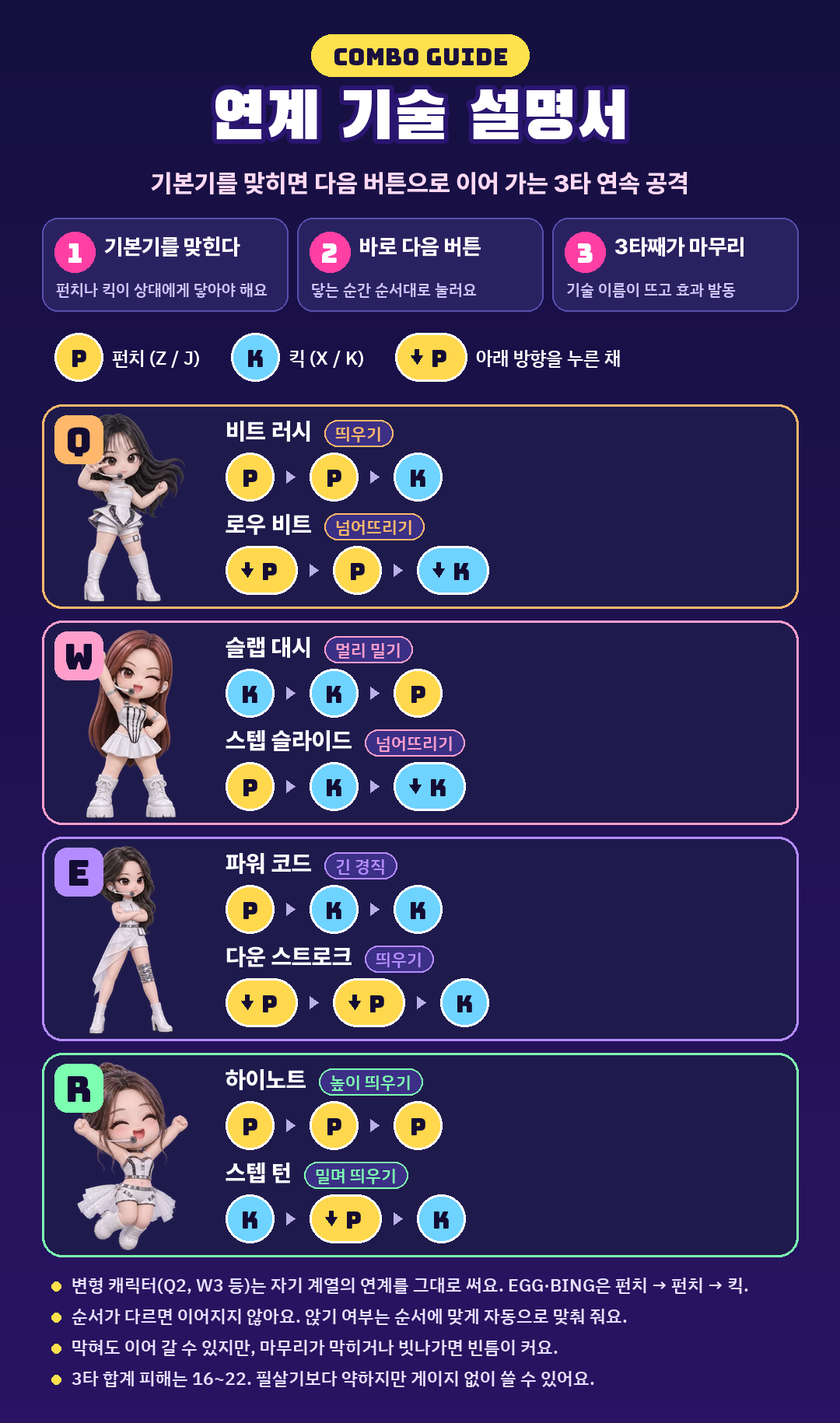
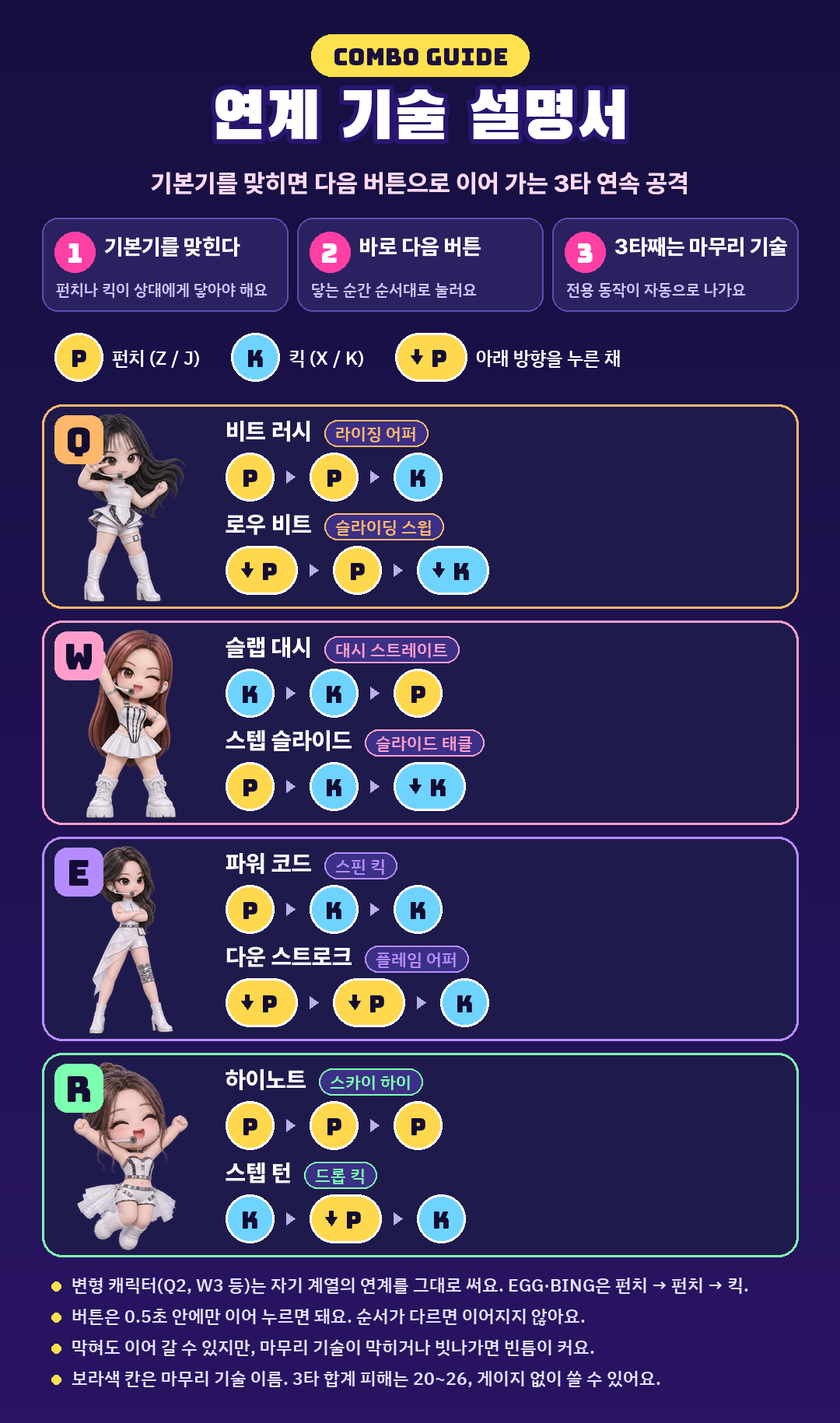
연계 기술: 입력 여유 확대, 전용 마무리 기술 추가 (빌드 20261115195649)

diff --git a/characters.html b/characters.html
@@ -92,7 +92,7 @@ footer{margin-top:48px;text-align:center;color:var(--dim);font-size:13px}
     <div class="stats"><div class="stat"><span>체력</span><div class="bar"><i style="width:60%"></i></div><b>98</b></div><div class="stat"><span>이동</span><div class="bar"><i style="width:62%"></i></div><b>278</b></div><div class="stat"><span>점프</span><div class="bar"><i style="width:74%"></i></div><b>825</b></div><div class="stat"><span>펀치</span><div class="bar"><i style="width:87%"></i></div><b>9</b></div><div class="stat"><span>킥</span><div class="bar"><i style="width:89%"></i></div><b>14</b></div><div class="stat"><span>사거리</span><div class="bar"><i style="width:41%"></i></div><b>+8</b></div></div>
     <ul class="extra"><li><span>공격 속도</span><b>93%</b></li><li><span>가드 중 받는 피해</span><b>100%</b></li><li><span>필살기 피해</span><b>103%</b></li></ul>
     <section class="special"><span class="kind">근접 연타</span><h4>필살기 · 불꽃 복싱 3연타</h4><p>앞으로 파고들어 불꽃 주먹을 세 번 이어 칩니다. 첫 타가 닿아야 다음 타로 이어지고, 마지막 타는 상대를 띄워 날립니다.</p></section>
-    <p class="tagline"><b>태그기</b> R와 함께 · 게이지 100%, 라운드당 1회</p><p class="tagline"><b>연계 기술</b> 비트 러시: 펀치 → 펀치 → 킥 (띄우기) · 로우 비트: 앉아 펀치 → 펀치 → 다리 걸기 (넘어뜨리기)</p>
+    <p class="tagline"><b>태그기</b> R와 함께 · 게이지 100%, 라운드당 1회</p><p class="tagline"><b>연계 기술</b> 비트 러시: 펀치 → 펀치 → 킥 (마무리 라이징 어퍼, 뛰어오르며 띄움) · 로우 비트: 앉아 펀치 → 펀치 → 다리 걸기 (마무리 슬라이딩 스윕, 넘어뜨림)</p>
   </div>
 </article>
 <article class="fighter" id="Qb" style="--c:#8fb4ff">
@@ -103,7 +103,7 @@ footer{margin-top:48px;text-align:center;color:var(--dim);font-size:13px}
     <div class="stats"><div class="stat"><span>체력</span><div class="bar"><i style="width:47%"></i></div><b>95</b></div><div class="stat"><span>이동</span><div class="bar"><i style="width:57%"></i></div><b>270</b></div><div class="stat"><span>점프</span><div class="bar"><i style="width:63%"></i></div><b>810</b></div><div class="stat"><span>펀치</span><div class="bar"><i style="width:87%"></i></div><b>9</b></div><div class="stat"><span>킥</span><div class="bar"><i style="width:100%"></i></div><b>15</b></div><div class="stat"><span>사거리</span><div class="bar"><i style="width:55%"></i></div><b>+14</b></div></div>
     <ul class="extra"><li><span>공격 속도</span><b>87%</b></li><li><span>가드 중 받는 피해</span><b>105%</b></li><li><span>필살기 피해</span><b>114%</b></li></ul>
     <section class="special"><span class="kind">원거리 · 연타</span><h4>필살기 · 드럼롤</h4><p>제자리에서 음파를 쏩니다. 발동 뒤에 공격 버튼을 연타한 만큼 음파가 더 나갑니다.</p></section>
-    <p class="tagline"><b>태그기</b> R2와 함께 · 게이지 100%, 라운드당 1회</p><p class="tagline"><b>연계 기술</b> 비트 러시: 펀치 → 펀치 → 킥 (띄우기) · 로우 비트: 앉아 펀치 → 펀치 → 다리 걸기 (넘어뜨리기)</p>
+    <p class="tagline"><b>태그기</b> R2와 함께 · 게이지 100%, 라운드당 1회</p><p class="tagline"><b>연계 기술</b> 비트 러시: 펀치 → 펀치 → 킥 (마무리 라이징 어퍼, 뛰어오르며 띄움) · 로우 비트: 앉아 펀치 → 펀치 → 다리 걸기 (마무리 슬라이딩 스윕, 넘어뜨림)</p>
   </div>
 </article>
 <article class="fighter" id="Qc" style="--c:#ff6b81">
@@ -114,7 +114,7 @@ footer{margin-top:48px;text-align:center;color:var(--dim);font-size:13px}
     <div class="stats"><div class="stat"><span>체력</span><div class="bar"><i style="width:74%"></i></div><b>101</b></div><div class="stat"><span>이동</span><div class="bar"><i style="width:50%"></i></div><b>260</b></div><div class="stat"><span>점프</span><div class="bar"><i style="width:56%"></i></div><b>800</b></div><div class="stat"><span>펀치</span><div class="bar"><i style="width:100%"></i></div><b>10</b></div><div class="stat"><span>킥</span><div class="bar"><i style="width:89%"></i></div><b>14</b></div><div class="stat"><span>사거리</span><div class="bar"><i style="width:65%"></i></div><b>+18</b></div></div>
     <ul class="extra"><li><span>공격 속도</span><b>84%</b></li><li><span>가드 중 받는 피해</span><b>97%</b></li><li><span>필살기 피해</span><b>111%</b></li></ul>
     <section class="special"><span class="kind">지상 제어</span><h4>필살기 · 페인트 웅덩이</h4><p>앞쪽 바닥에 페인트 웅덩이를 깝니다. 웅덩이를 밟은 상대는 미끄러지고 가드를 하지 못합니다.</p></section>
-    <p class="tagline"><b>태그기</b> R3와 함께 · 게이지 100%, 라운드당 1회</p><p class="tagline"><b>연계 기술</b> 비트 러시: 펀치 → 펀치 → 킥 (띄우기) · 로우 비트: 앉아 펀치 → 펀치 → 다리 걸기 (넘어뜨리기)</p>
+    <p class="tagline"><b>태그기</b> R3와 함께 · 게이지 100%, 라운드당 1회</p><p class="tagline"><b>연계 기술</b> 비트 러시: 펀치 → 펀치 → 킥 (마무리 라이징 어퍼, 뛰어오르며 띄움) · 로우 비트: 앉아 펀치 → 펀치 → 다리 걸기 (마무리 슬라이딩 스윕, 넘어뜨림)</p>
   </div>
 </article>
 </section>
@@ -127,7 +127,7 @@ footer{margin-top:48px;text-align:center;color:var(--dim);font-size:13px}
     <div class="stats"><div class="stat"><span>체력</span><div class="bar"><i style="width:87%"></i></div><b>104</b></div><div class="stat"><span>이동</span><div class="bar"><i style="width:90%"></i></div><b>325</b></div><div class="stat"><span>점프</span><div class="bar"><i style="width:52%"></i></div><b>795</b></div><div class="stat"><span>펀치</span><div class="bar"><i style="width:47%"></i></div><b>6</b></div><div class="stat"><span>킥</span><div class="bar"><i style="width:56%"></i></div><b>11</b></div><div class="stat"><span>사거리</span><div class="bar"><i style="width:81%"></i></div><b>+25</b></div></div>
     <ul class="extra"><li><span>공격 속도</span><b>120%</b></li><li><span>가드 중 받는 피해</span><b>80%</b></li><li><span>필살기 피해</span><b>103%</b></li></ul>
     <section class="special"><span class="kind">돌진</span><h4>필살기 · 하트 돌진</h4><p>하트를 흩날리며 빠르게 돌진합니다. 맞은 상대는 오래 경직됩니다.</p></section>
-    <p class="tagline"><b>태그기</b> E와 함께 · 게이지 100%, 라운드당 1회</p><p class="tagline"><b>연계 기술</b> 슬랩 대시: 킥 → 킥 → 펀치 (멀리 밀기) · 스텝 슬라이드: 펀치 → 킥 → 다리 걸기 (넘어뜨리기)</p>
+    <p class="tagline"><b>태그기</b> E와 함께 · 게이지 100%, 라운드당 1회</p><p class="tagline"><b>연계 기술</b> 슬랩 대시: 킥 → 킥 → 펀치 (마무리 대시 스트레이트, 멀리 밀어냄) · 스텝 슬라이드: 펀치 → 킥 → 다리 걸기 (마무리 슬라이드 태클, 넘어뜨림)</p>
   </div>
 </article>
 <article class="fighter" id="Wb" style="--c:#c4a0ff">
@@ -138,7 +138,7 @@ footer{margin-top:48px;text-align:center;color:var(--dim);font-size:13px}
     <div class="stats"><div class="stat"><span>체력</span><div class="bar"><i style="width:69%"></i></div><b>100</b></div><div class="stat"><span>이동</span><div class="bar"><i style="width:79%"></i></div><b>306</b></div><div class="stat"><span>점프</span><div class="bar"><i style="width:34%"></i></div><b>770</b></div><div class="stat"><span>펀치</span><div class="bar"><i style="width:47%"></i></div><b>6</b></div><div class="stat"><span>킥</span><div class="bar"><i style="width:56%"></i></div><b>11</b></div><div class="stat"><span>사거리</span><div class="bar"><i style="width:100%"></i></div><b>+33</b></div></div>
     <ul class="extra"><li><span>공격 속도</span><b>115%</b></li><li><span>가드 중 받는 피해</span><b>90%</b></li><li><span>필살기 피해</span><b>105%</b></li></ul>
     <section class="special"><span class="kind">중거리 · 지상</span><h4>필살기 · 저음 지진</h4><p>앞쪽 바닥에 예고 원이 생긴 뒤 보라색 충격파가 솟아 지상의 상대를 띄웁니다. 너무 가깝거나 멀면 맞지 않습니다.</p></section>
-    <p class="tagline"><b>태그기</b> E2와 함께 · 게이지 100%, 라운드당 1회</p><p class="tagline"><b>연계 기술</b> 슬랩 대시: 킥 → 킥 → 펀치 (멀리 밀기) · 스텝 슬라이드: 펀치 → 킥 → 다리 걸기 (넘어뜨리기)</p>
+    <p class="tagline"><b>태그기</b> E2와 함께 · 게이지 100%, 라운드당 1회</p><p class="tagline"><b>연계 기술</b> 슬랩 대시: 킥 → 킥 → 펀치 (마무리 대시 스트레이트, 멀리 밀어냄) · 스텝 슬라이드: 펀치 → 킥 → 다리 걸기 (마무리 슬라이드 태클, 넘어뜨림)</p>
   </div>
 </article>
 <article class="fighter" id="Wc" style="--c:#ff8fa3">
@@ -149,7 +149,7 @@ footer{margin-top:48px;text-align:center;color:var(--dim);font-size:13px}
     <div class="stats"><div class="stat"><span>체력</span><div class="bar"><i style="width:38%"></i></div><b>93</b></div><div class="stat"><span>이동</span><div class="bar"><i style="width:100%"></i></div><b>341</b></div><div class="stat"><span>점프</span><div class="bar"><i style="width:60%"></i></div><b>805</b></div><div class="stat"><span>펀치</span><div class="bar"><i style="width:60%"></i></div><b>7</b></div><div class="stat"><span>킥</span><div class="bar"><i style="width:56%"></i></div><b>11</b></div><div class="stat"><span>사거리</span><div class="bar"><i style="width:41%"></i></div><b>+8</b></div></div>
     <ul class="extra"><li><span>공격 속도</span><b>130%</b></li><li><span>가드 중 받는 피해</span><b>112%</b></li><li><span>필살기 피해</span><b>101%</b></li></ul>
     <section class="special"><span class="kind">돌진</span><h4>필살기 · 페인트 롤러 돌진</h4><p>롤러를 밀며 화면의 절반 가까이 돌진합니다. 상대를 벽까지 밀어붙이면 큰 피해를, 벽에 닿지 못하면 작은 피해를 줍니다. 점프로 피할 수 있습니다.</p></section>
-    <p class="tagline"><b>태그기</b> E3와 함께 · 게이지 100%, 라운드당 1회</p><p class="tagline"><b>연계 기술</b> 슬랩 대시: 킥 → 킥 → 펀치 (멀리 밀기) · 스텝 슬라이드: 펀치 → 킥 → 다리 걸기 (넘어뜨리기)</p>
+    <p class="tagline"><b>태그기</b> E3와 함께 · 게이지 100%, 라운드당 1회</p><p class="tagline"><b>연계 기술</b> 슬랩 대시: 킥 → 킥 → 펀치 (마무리 대시 스트레이트, 멀리 밀어냄) · 스텝 슬라이드: 펀치 → 킥 → 다리 걸기 (마무리 슬라이드 태클, 넘어뜨림)</p>
   </div>
 </article>
 </section>
@@ -162,7 +162,7 @@ footer{margin-top:48px;text-align:center;color:var(--dim);font-size:13px}
     <div class="stats"><div class="stat"><span>체력</span><div class="bar"><i style="width:82%"></i></div><b>103</b></div><div class="stat"><span>이동</span><div class="bar"><i style="width:34%"></i></div><b>233</b></div><div class="stat"><span>점프</span><div class="bar"><i style="width:40%"></i></div><b>778</b></div><div class="stat"><span>펀치</span><div class="bar"><i style="width:60%"></i></div><b>7</b></div><div class="stat"><span>킥</span><div class="bar"><i style="width:78%"></i></div><b>13</b></div><div class="stat"><span>사거리</span><div class="bar"><i style="width:46%"></i></div><b>+10</b></div></div>
     <ul class="extra"><li><span>공격 속도</span><b>87%</b></li><li><span>가드 중 받는 피해</span><b>100%</b></li><li><span>필살기 피해</span><b>97%</b></li></ul>
     <section class="special"><span class="kind">근접 연타</span><h4>필살기 · 보랏빛 고양이 3연격</h4><p>보랏빛 궤적을 그리며 세 번 이어 칩니다. 첫 타가 닿아야 다음 타로 이어지고, 마지막 타는 상대를 높이 띄웁니다.</p></section>
-    <p class="tagline"><b>태그기</b> R와 함께 · 게이지 100%, 라운드당 1회</p><p class="tagline"><b>연계 기술</b> 파워 코드: 펀치 → 킥 → 킥 (긴 경직) · 다운 스트로크: 앉아 펀치 → 앉아 펀치 → 킥 (띄우기)</p>
+    <p class="tagline"><b>태그기</b> R와 함께 · 게이지 100%, 라운드당 1회</p><p class="tagline"><b>연계 기술</b> 파워 코드: 펀치 → 킥 → 킥 (마무리 스핀 킥, 긴 경직) · 다운 스트로크: 앉아 펀치 → 앉아 펀치 → 킥 (마무리 플레임 어퍼, 띄움)</p>
   </div>
 </article>
 <article class="fighter" id="Eb" style="--c:#7fe6ff">
@@ -173,7 +173,7 @@ footer{margin-top:48px;text-align:center;color:var(--dim);font-size:13px}
     <div class="stats"><div class="stat"><span>체력</span><div class="bar"><i style="width:74%"></i></div><b>101</b></div><div class="stat"><span>이동</span><div class="bar"><i style="width:46%"></i></div><b>253</b></div><div class="stat"><span>점프</span><div class="bar"><i style="width:68%"></i></div><b>816</b></div><div class="stat"><span>펀치</span><div class="bar"><i style="width:74%"></i></div><b>8</b></div><div class="stat"><span>킥</span><div class="bar"><i style="width:56%"></i></div><b>11</b></div><div class="stat"><span>사거리</span><div class="bar"><i style="width:34%"></i></div><b>+5</b></div></div>
     <ul class="extra"><li><span>공격 속도</span><b>95%</b></li><li><span>가드 중 받는 피해</span><b>100%</b></li><li><span>필살기 피해</span><b>103%</b></li></ul>
     <section class="special"><span class="kind">근접 · 띄우기</span><h4>필살기 · 청염 어퍼컷</h4><p>파란 불꽃 주먹으로 올려쳐 상대를 높이 띄웁니다.</p></section>
-    <p class="tagline"><b>태그기</b> W2와 함께 · 게이지 100%, 라운드당 1회</p><p class="tagline"><b>연계 기술</b> 파워 코드: 펀치 → 킥 → 킥 (긴 경직) · 다운 스트로크: 앉아 펀치 → 앉아 펀치 → 킥 (띄우기)</p>
+    <p class="tagline"><b>태그기</b> W2와 함께 · 게이지 100%, 라운드당 1회</p><p class="tagline"><b>연계 기술</b> 파워 코드: 펀치 → 킥 → 킥 (마무리 스핀 킥, 긴 경직) · 다운 스트로크: 앉아 펀치 → 앉아 펀치 → 킥 (마무리 플레임 어퍼, 띄움)</p>
   </div>
 </article>
 <article class="fighter" id="Ec" style="--c:#ff5c7a">
@@ -184,7 +184,7 @@ footer{margin-top:48px;text-align:center;color:var(--dim);font-size:13px}
     <div class="stats"><div class="stat"><span>체력</span><div class="bar"><i style="width:52%"></i></div><b>96</b></div><div class="stat"><span>이동</span><div class="bar"><i style="width:54%"></i></div><b>265</b></div><div class="stat"><span>점프</span><div class="bar"><i style="width:60%"></i></div><b>805</b></div><div class="stat"><span>펀치</span><div class="bar"><i style="width:74%"></i></div><b>8</b></div><div class="stat"><span>킥</span><div class="bar"><i style="width:67%"></i></div><b>12</b></div><div class="stat"><span>사거리</span><div class="bar"><i style="width:36%"></i></div><b>+6</b></div></div>
     <ul class="extra"><li><span>공격 속도</span><b>97%</b></li><li><span>가드 중 받는 피해</span><b>112%</b></li><li><span>필살기 피해</span><b>102%</b></li></ul>
     <section class="special"><span class="kind">근접 연타</span><h4>필살기 · 홍염 더블 펀치</h4><p>붉은 불꽃 주먹을 두 번 뻗습니다. 첫 펀치가 맞아야 두 번째 펀치가 이어집니다.</p></section>
-    <p class="tagline"><b>태그기</b> W3와 함께 · 게이지 100%, 라운드당 1회</p><p class="tagline"><b>연계 기술</b> 파워 코드: 펀치 → 킥 → 킥 (긴 경직) · 다운 스트로크: 앉아 펀치 → 앉아 펀치 → 킥 (띄우기)</p>
+    <p class="tagline"><b>태그기</b> W3와 함께 · 게이지 100%, 라운드당 1회</p><p class="tagline"><b>연계 기술</b> 파워 코드: 펀치 → 킥 → 킥 (마무리 스핀 킥, 긴 경직) · 다운 스트로크: 앉아 펀치 → 앉아 펀치 → 킥 (마무리 플레임 어퍼, 띄움)</p>
   </div>
 </article>
 </section>
@@ -197,7 +197,7 @@ footer{margin-top:48px;text-align:center;color:var(--dim);font-size:13px}
     <div class="stats"><div class="stat"><span>체력</span><div class="bar"><i style="width:43%"></i></div><b>94</b></div><div class="stat"><span>이동</span><div class="bar"><i style="width:68%"></i></div><b>289</b></div><div class="stat"><span>점프</span><div class="bar"><i style="width:100%"></i></div><b>860</b></div><div class="stat"><span>펀치</span><div class="bar"><i style="width:47%"></i></div><b>6</b></div><div class="stat"><span>킥</span><div class="bar"><i style="width:45%"></i></div><b>10</b></div><div class="stat"><span>사거리</span><div class="bar"><i style="width:34%"></i></div><b>+5</b></div></div>
     <ul class="extra"><li><span>공격 속도</span><b>105%</b></li><li><span>가드 중 받는 피해</span><b>115%</b></li><li><span>필살기 피해</span><b>96%</b></li><li><span>공중 기동</span><b>특화</b></li></ul>
     <section class="special"><span class="kind">원거리 연사</span><h4>필살기 · 도넛 난사</h4><p>제자리에서 도넛을 일곱 개 연달아 던집니다. 마지막 도넛이 가장 큽니다.</p></section>
-    <p class="tagline"><b>태그기</b> W와 함께 · 게이지 100%, 라운드당 1회</p><p class="tagline"><b>연계 기술</b> 하이노트: 펀치 → 펀치 → 펀치 (높이 띄우기) · 스텝 턴: 킥 → 앉아 펀치 → 킥 (밀며 띄우기)</p><p class="tagline"><b>잡아 던지기</b> G 키 / 잡기 버튼 · 가까운 지상의 상대에게 피해 4, 가드 통과</p>
+    <p class="tagline"><b>태그기</b> W와 함께 · 게이지 100%, 라운드당 1회</p><p class="tagline"><b>연계 기술</b> 하이노트: 펀치 → 펀치 → 펀치 (마무리 스카이 하이, 높이 띄움) · 스텝 턴: 킥 → 앉아 펀치 → 킥 (마무리 드롭 킥, 밀며 띄움)</p><p class="tagline"><b>잡아 던지기</b> G 키 / 잡기 버튼 · 가까운 지상의 상대에게 피해 4, 가드 통과</p>
   </div>
 </article>
 <article class="fighter" id="Rb" style="--c:#ff9ecb">
@@ -208,7 +208,7 @@ footer{margin-top:48px;text-align:center;color:var(--dim);font-size:13px}
     <div class="stats"><div class="stat"><span>체력</span><div class="bar"><i style="width:100%"></i></div><b>107</b></div><div class="stat"><span>이동</span><div class="bar"><i style="width:49%"></i></div><b>258</b></div><div class="stat"><span>점프</span><div class="bar"><i style="width:45%"></i></div><b>785</b></div><div class="stat"><span>펀치</span><div class="bar"><i style="width:47%"></i></div><b>6</b></div><div class="stat"><span>킥</span><div class="bar"><i style="width:67%"></i></div><b>12</b></div><div class="stat"><span>사거리</span><div class="bar"><i style="width:58%"></i></div><b>+15</b></div></div>
     <ul class="extra"><li><span>공격 속도</span><b>91%</b></li><li><span>가드 중 받는 피해</span><b>98%</b></li><li><span>필살기 피해</span><b>98%</b></li></ul>
     <section class="special"><span class="kind">가드 무시</span><h4>필살기 · 고음 샤우팅</h4><p>분홍 음파를 내질러 상대를 화면 끝까지 날립니다. 가드를 무시합니다.</p></section>
-    <p class="tagline"><b>태그기</b> Q2와 함께 · 게이지 100%, 라운드당 1회</p><p class="tagline"><b>연계 기술</b> 하이노트: 펀치 → 펀치 → 펀치 (높이 띄우기) · 스텝 턴: 킥 → 앉아 펀치 → 킥 (밀며 띄우기)</p><p class="tagline"><b>잡아 던지기</b> G 키 / 잡기 버튼 · 가까운 지상의 상대에게 피해 4, 가드 통과</p>
+    <p class="tagline"><b>태그기</b> Q2와 함께 · 게이지 100%, 라운드당 1회</p><p class="tagline"><b>연계 기술</b> 하이노트: 펀치 → 펀치 → 펀치 (마무리 스카이 하이, 높이 띄움) · 스텝 턴: 킥 → 앉아 펀치 → 킥 (마무리 드롭 킥, 밀며 띄움)</p><p class="tagline"><b>잡아 던지기</b> G 키 / 잡기 버튼 · 가까운 지상의 상대에게 피해 4, 가드 통과</p>
   </div>
 </article>
 <article class="fighter" id="Rd" style="--c:#ff4d6d">
@@ -219,7 +219,7 @@ footer{margin-top:48px;text-align:center;color:var(--dim);font-size:13px}
     <div class="stats"><div class="stat"><span>체력</span><div class="bar"><i style="width:96%"></i></div><b>106</b></div><div class="stat"><span>이동</span><div class="bar"><i style="width:40%"></i></div><b>242</b></div><div class="stat"><span>점프</span><div class="bar"><i style="width:74%"></i></div><b>825</b></div><div class="stat"><span>펀치</span><div class="bar"><i style="width:60%"></i></div><b>7</b></div><div class="stat"><span>킥</span><div class="bar"><i style="width:67%"></i></div><b>12</b></div><div class="stat"><span>사거리</span><div class="bar"><i style="width:41%"></i></div><b>+8</b></div></div>
     <ul class="extra"><li><span>공격 속도</span><b>88%</b></li><li><span>가드 중 받는 피해</span><b>106%</b></li><li><span>필살기 피해</span><b>102%</b></li></ul>
     <section class="special"><span class="kind">공중 강습 · 가드 불가</span><h4>필살기 · 통굽 내려찍기</h4><p>높이 뛰어올라 상대 위로 떨어집니다. 착지 충격은 가드할 수 없습니다.</p></section>
-    <p class="tagline"><b>태그기</b> Q3와 함께 · 게이지 100%, 라운드당 1회</p><p class="tagline"><b>연계 기술</b> 하이노트: 펀치 → 펀치 → 펀치 (높이 띄우기) · 스텝 턴: 킥 → 앉아 펀치 → 킥 (밀며 띄우기)</p><p class="tagline"><b>잡아 던지기</b> G 키 / 잡기 버튼 · 가까운 지상의 상대에게 피해 4, 가드 통과</p>
+    <p class="tagline"><b>태그기</b> Q3와 함께 · 게이지 100%, 라운드당 1회</p><p class="tagline"><b>연계 기술</b> 하이노트: 펀치 → 펀치 → 펀치 (마무리 스카이 하이, 높이 띄움) · 스텝 턴: 킥 → 앉아 펀치 → 킥 (마무리 드롭 킥, 밀며 띄움)</p><p class="tagline"><b>잡아 던지기</b> G 키 / 잡기 버튼 · 가까운 지상의 상대에게 피해 4, 가드 통과</p>
   </div>
 </article>
 <article class="fighter" id="Rc" style="--c:#ffe066">
@@ -230,7 +230,7 @@ footer{margin-top:48px;text-align:center;color:var(--dim);font-size:13px}
     <div class="stats"><div class="stat"><span>체력</span><div class="bar"><i style="width:34%"></i></div><b>92</b></div><div class="stat"><span>이동</span><div class="bar"><i style="width:73%"></i></div><b>297</b></div><div class="stat"><span>점프</span><div class="bar"><i style="width:89%"></i></div><b>845</b></div><div class="stat"><span>펀치</span><div class="bar"><i style="width:34%"></i></div><b>5</b></div><div class="stat"><span>킥</span><div class="bar"><i style="width:34%"></i></div><b>9</b></div><div class="stat"><span>사거리</span><div class="bar"><i style="width:36%"></i></div><b>+6</b></div></div>
     <ul class="extra"><li><span>공격 속도</span><b>111%</b></li><li><span>가드 중 받는 피해</span><b>110%</b></li><li><span>필살기 피해</span><b>100%</b></li><li><span>공중 기동</span><b>특화</b></li></ul>
     <section class="special"><span class="kind">회복</span><h4>필살기 · 뿌앵 울기</h4><p>눈물이 차오르는 동안 가까운 상대를 여러 번 때리고 자신의 체력을 조금씩 회복합니다.</p></section>
-    <p class="tagline"><b>태그기</b> R3와 함께 · 게이지 100%, 라운드당 1회</p><p class="tagline"><b>연계 기술</b> 하이노트: 펀치 → 펀치 → 펀치 (높이 띄우기) · 스텝 턴: 킥 → 앉아 펀치 → 킥 (밀며 띄우기)</p><p class="tagline"><b>잡아 던지기</b> G 키 / 잡기 버튼 · 가까운 지상의 상대에게 피해 4, 가드 통과</p>
+    <p class="tagline"><b>태그기</b> R3와 함께 · 게이지 100%, 라운드당 1회</p><p class="tagline"><b>연계 기술</b> 하이노트: 펀치 → 펀치 → 펀치 (마무리 스카이 하이, 높이 띄움) · 스텝 턴: 킥 → 앉아 펀치 → 킥 (마무리 드롭 킥, 밀며 띄움)</p><p class="tagline"><b>잡아 던지기</b> G 키 / 잡기 버튼 · 가까운 지상의 상대에게 피해 4, 가드 통과</p>
   </div>
 </article>
 </section>

diff --git a/js/fight.js b/js/fight.js
@@ -41,14 +41,14 @@ function applyHit(f,o,a){
   const big=damage>=10,kind=a.kind||(big?'k':'p');impact(hx,hy,f.face,a.sp?120:big?92:62,a.sp?'#ff9a3c':big?'#ffd24a':'#fff6c8');ring(hx,hy,'#fff',big?60:40);spark(hx,hy,big?'#ffe27a':'#fff',big?16:9,big?420:300);spark(hx,hy,CH[f.ch].col,6,260);if(kind==='l')dust(o.x);
   shake=Math.max(shake,big?12:6);hitstop=a.sp?.11:big?.085:.055;sfx.hit(a.sp?1.5:big?1.15:.8,kind);
   fx.push({k:'d',x:o.x,y:GROUND-o.y-250,t:0,d:.7,txt:Math.round(damage*10)/10});
-  if(a.fin){fx.push({k:'d',x:o.x,y:GROUND-o.y-310,t:0,d:1,txt:a.fin});ring(hx,hy,CH[f.ch].col,110);shake=Math.max(shake,16)}
+  if(a.fin){fx.push({k:'d',x:o.x,y:GROUND-o.y-310,t:0,d:1,txt:a.fin});ring(hx,hy,a.col||CH[f.ch].col,130);spark(hx,hy,a.col||'#fff',22,460);shake=Math.max(shake,18);hitstop=Math.max(hitstop,.11)}
   if(o.hp<=0&&phase==='fight'){setSt(o,'ko');o.down=false;o.vy=Math.max(o.vy,460);o.y=Math.max(o.y,.01);o.vx=f.face*Math.max(a.push,330);
     phase='ko';pt=0;slow=1.0;flash=.5;sfx.ko();shake=22;say('K.O.',2.2);f.wins++;f.winner=true;o.winner=false;if(bgm)setMusicGain(.2)}
 }
 function tryHit(f,o,a){
   if(f.hitDone||o.st==='ko'||o.st==='kd')return false;if(a.high&&(o.st==='crouch'||o.st==='cpunch'||o.st==='ckick'))return false;const dx=(o.x-f.x)*f.face;
   if(dx<-25||dx>a.reach+CH[f.ch].reach)return false;if(Math.abs(o.y-f.y)>(a.vr||140))return false;
-  f.hitDone=true;applyHit(f,o,a);return true}
+  f.hitDone=true;if(f.st==='punch'||f.st==='kick'||f.st==='cpunch'||f.st==='ckick')f.cw=.5;applyHit(f,o,a);return true}
 function surfacePulse(x,color,reach,kind='groundPulse'){
   fx.push({k:kind,x,y:GROUND-1,t:0,d:.44,w:reach,col:color});
 }
@@ -189,46 +189,69 @@ function fire(f){ const c=f.ch;sfx.special(c);setSt(f,'special');f.spN=0;f.spT=0
   else if(c==='R'){f.vx=0} }
 const canCrouch=f=>!!META[f.ch]?.frames?.crouch;
 const CHAIN_ROUTES={
-  Q:[{name:'비트 러시',seq:['punch','punch','kick'],fin:{dmg:1,lift:430,push:260,stun:.5}},{name:'로우 비트',seq:['cpunch','punch','ckick'],fin:{dmg:1.15,push:300}}],
-  W:[{name:'슬랩 대시',seq:['kick','kick','punch'],fin:{dmg:1.6,push:640,stun:.45}},{name:'스텝 슬라이드',seq:['punch','kick','ckick'],fin:{dmg:1.15,push:320}}],
-  E:[{name:'파워 코드',seq:['punch','kick','kick'],fin:{dmg:1.15,push:400,stun:.7}},{name:'다운 스트로크',seq:['cpunch','cpunch','kick'],fin:{dmg:1,lift:480,push:200,stun:.5}}],
-  R:[{name:'하이노트',seq:['punch','punch','punch'],fin:{dmg:2.2,lift:560,push:160,stun:.5}},{name:'스텝 턴',seq:['kick','cpunch','kick'],fin:{dmg:1.05,lift:300,push:440,stun:.5}}]
+  Q:[{name:'비트 러시',seq:['punch','punch','kick']},{name:'로우 비트',seq:['cpunch','punch','ckick']}],
+  W:[{name:'슬랩 대시',seq:['kick','kick','punch']},{name:'스텝 슬라이드',seq:['punch','kick','ckick']}],
+  E:[{name:'파워 코드',seq:['punch','kick','kick']},{name:'다운 스트로크',seq:['cpunch','cpunch','kick']}],
+  R:[{name:'하이노트',seq:['punch','punch','punch']},{name:'스텝 턴',seq:['kick','cpunch','kick']}]
 };
-const CHAIN_DEFAULT=[{name:'연속 공격',seq:['punch','punch','kick'],fin:{dmg:1,push:420,stun:.45}}];
+const CHAIN_DEFAULT=[{name:'연속 공격',seq:['punch','punch','kick']}];
 const chainRoutes=f=>CHAIN_ROUTES[BASE_CHARACTER[f.ch]]||CHAIN_DEFAULT;
+const FINISHERS={
+  Q0:{name:'라이징 어퍼',frame:'punch',tilt:-.5,vx:230,vy:760,from:.03,to:.3,dmg:.75,hit:{reach:150,stun:.6,push:200,lift:640,vr:260,hy:170},col:'#ff9a3c'},
+  Q1:{name:'슬라이딩 스윕',frame:'ckick',vx:640,dur:.3,from:.04,to:.26,dmg:.7,hit:{reach:150,stun:.4,push:260,hy:55,kd:1,kind:'l'},col:'#ffd24a',dust:1},
+  W0:{name:'대시 스트레이트',frame:'punch',vx:920,dur:.22,from:.03,to:.2,dmg:.75,hit:{reach:140,stun:.5,push:720,hy:150},col:'#ff9ecb'},
+  W1:{name:'슬라이드 태클',frame:'ckick',vx:760,dur:.3,from:.04,to:.27,dmg:.7,hit:{reach:150,stun:.4,push:300,hy:55,kd:1,kind:'l'},col:'#ff9ecb',dust:1},
+  E0:{name:'스핀 킥',frame:'kick',spin:16,vx:260,dur:.42,from:.14,to:.34,dmg:.85,hit:{reach:170,stun:.8,push:420,hy:140},col:'#b48cff'},
+  E1:{name:'플레임 어퍼',frame:'special',tilt:-.35,vx:160,vy:600,from:.03,to:.3,dmg:.8,hit:{reach:150,stun:.6,push:180,lift:600,vr:260,hy:170},col:'#ff5c3c'},
+  R0:{name:'스카이 하이',frame:'jump',vx:90,vy:820,from:.02,to:.32,dmg:.9,hit:{reach:140,stun:.6,push:120,lift:760,vr:300,hy:180},col:'#7dffb0'},
+  R1:{name:'드롭 킥',frame:'kick',tilt:-.4,vx:520,vy:360,from:.06,to:.36,dmg:.8,hit:{reach:160,stun:.55,push:520,lift:300,vr:220,hy:130},col:'#ffe066'},
+  X0:{name:'피니시 블로',frame:'punch',vx:700,dur:.24,from:.03,to:.2,dmg:.75,hit:{reach:140,stun:.5,push:520,hy:150},col:'#ffffff'}
+};
+const finisherOf=f=>FINISHERS[f.fn]||FINISHERS.X0;
+function startFinisher(f,route){
+  const base=BASE_CHARACTER[f.ch],list=CHAIN_ROUTES[base];
+  setSt(f,'fin');f.fn=list?base+list.indexOf(route):'X0';f.cs='';f.cw=0;f.trail=[];
+  const d=finisherOf(f);f.vx=f.face*d.vx;if(d.vy){f.vy=d.vy;f.y=Math.max(f.y,.01)}
+  sfx.whoosh(1.3);if(f.buf)f.buf.p=f.buf.k=0}
 const chainFits=(f,seq)=>chainRoutes(f).find(r=>seq.length<=r.seq.length&&seq.every((s,i)=>r.seq[i]===s));
+function chainEnter(f,cand){
+  const route=chainFits(f,cand);
+  if(cand.length===route.seq.length){startFinisher(f,route);return}
+  setSt(f,cand[cand.length-1]);f.cs=cand.join('>');f.cw=0;f.vx=f.face*260;sfx.whoosh(1);if(f.buf)f.buf.p=f.buf.k=0}
 function chainStep(f){
   const seq=(f.cs||'').split('>');if(seq.length<2||seq[seq.length-1]!==f.st)return null;
-  const route=chainFits(f,seq);return route?{route,last:seq.length===route.seq.length}:null}
+  return chainFits(f,seq)||null}
 function chainHit(f,a){
-  const c=chainStep(f);if(!c)return a;
-  if(!c.last)return{...a,dmg:a.dmg*.45,stun:Math.max(a.stun,.3),push:a.push*.5,reach:a.reach+40,kd:0};
-  const x=c.route.fin,h={...a,dmg:a.dmg*x.dmg*.55,reach:a.reach+40,fin:c.route.name};
-  if(x.push)h.push=x.push;if(x.stun)h.stun=x.stun;if(x.lift)h.lift=x.lift;return h}
-function chainTime(f){const c=chainStep(f);return c&&!c.last?.8:1}
-function chainRec(f){const c=chainStep(f);return c&&c.last?1.25:1}
+  if(!chainStep(f))return chainFits(f,[f.st])?{...a,stun:Math.max(a.stun,.36)}:a;
+  return{...a,dmg:a.dmg*.6,stun:Math.max(a.stun,.42),push:a.push*.5,reach:a.reach+40,kd:0}}
+function chainTime(f){return chainStep(f)?.8:1}
 function chainNext(f,button,down){
   const seq=(f.cs||f.st).split('>'),order=button==='p'?(down?['cpunch','punch']:['punch','cpunch']):(down?['ckick','kick']:['kick','ckick']);
   for(const next of order){if(next[0]==='c'&&!canCrouch(f))continue;const cand=seq.concat(next);if(chainFits(f,cand))return cand}
   return null}
+function chainResume(f,I){
+  if(!(f.cw>0)||!f.cs||!(I.p||I.k))return false;
+  const cand=chainNext(f,I.p?'p':'k',I.down);if(!cand)return false;
+  chainEnter(f,cand);return true}
 function tryChain(f,I){
   if(!f.hitDone||!(I.p||I.k))return false;
   const cand=chainNext(f,I.p?'p':'k',I.down);if(!cand)return false;
-  setSt(f,cand[cand.length-1]);f.cs=cand.join('>');f.vx=f.face*260;sfx.whoosh(1);if(f.buf)f.buf.p=f.buf.k=0;return true}
+  chainEnter(f,cand);return true}
 function stepF(f,o,dt){
-  const I=f.inp,K=CH[f.ch];f.t+=dt;const gr=f.y<=0&&f.vy<=0;f.slip=Math.max(0,(f.slip||0)-dt);f.rev=Math.max(0,(f.rev||0)-dt);f.dizzy=Math.max(0,(f.dizzy||0)-dt);if(f.rev>0){const q=I.l;I.l=I.r;I.r=q}
+  const I=f.inp,K=CH[f.ch];f.t+=dt;f.cw=Math.max(0,(f.cw||0)-dt);const gr=f.y<=0&&f.vy<=0;f.slip=Math.max(0,(f.slip||0)-dt);f.rev=Math.max(0,(f.rev||0)-dt);f.dizzy=Math.max(0,(f.dizzy||0)-dt);if(f.rev>0){const q=I.l;I.l=I.r;I.r=q}
   if(phase!=='fight'&&(f.st==='idle'||f.st==='walk'||f.st==='guard'||f.st==='crouch')){f.vx=0;if(f.st!=='idle')setSt(f,'idle')}
   else if((f.st==='idle'||f.st==='walk'||f.st==='guard'||f.st==='crouch')&&gr){
     if(f.st==='guard'&&f.stun>0){f.stun-=dt}
     else{ f.face=o.x>=f.x?1:-1;
       if((I.s||(I.t&&!f.tagUsed&&TAG[f.ch]))&&f.meter>=100){const tg=I.t&&!f.tagUsed&&TAG[f.ch];f.meter=0;setSt(f,'charge');f.vx=0;if(f.buf)f.buf.s=f.buf.t=0;if(tg){f.sv=2;f.tagUsed=true}else f.sv=SPV[f.ch]||0;if(window.__sv!==undefined)f.sv=(window.__sv===1&&SPN[f.ch]<2)?0:window.__sv;startCut(f)}
       else if(I.g&&BASE_CHARACTER[f.ch]==='R'){setSt(f,'throw');f.vx=0;if(f.buf)f.buf.g=0;sfx.whoosh(.8)}
+      else if(chainResume(f,I)){}
       else if(I.down&&canCrouch(f)){
-        if(I.p){setSt(f,'cpunch');f.cs='';f.vx=0;sfx.whoosh(.7);if(f.buf)f.buf.p=0}
-        else if(I.k){setSt(f,'ckick');f.cs='';f.vx=f.face*20;sfx.whoosh(.9);if(f.buf)f.buf.k=0}
+        if(I.p){setSt(f,'cpunch');f.cs='cpunch';f.vx=0;sfx.whoosh(.7);if(f.buf)f.buf.p=0}
+        else if(I.k){setSt(f,'ckick');f.cs='ckick';f.vx=f.face*20;sfx.whoosh(.9);if(f.buf)f.buf.k=0}
         else{f.vx=0;if(f.st!=='crouch')setSt(f,'crouch')}}
-      else if(I.p){setSt(f,'punch');f.cs='';f.vx=f.face*40*(K.lunge||1);sfx.whoosh(.8);if(f.buf)f.buf.p=0}
-      else if(I.k){setSt(f,'kick');f.cs='';f.vx=f.face*30*(K.lunge||1);sfx.whoosh(1);if(f.buf)f.buf.k=0}
+      else if(I.p){setSt(f,'punch');f.cs='punch';f.vx=f.face*40*(K.lunge||1);sfx.whoosh(.8);if(f.buf)f.buf.p=0}
+      else if(I.k){setSt(f,'kick');f.cs='kick';f.vx=f.face*30*(K.lunge||1);sfx.whoosh(1);if(f.buf)f.buf.k=0}
       else if(I.up){f.vy=K.jump;f.y=.01;setSt(f,'jump');f.airAtk=false;f.vx=(I.r-I.l)*K.speed*.95;sfx.jump()}
       else if(f.slip<=0&&(!net&&f.cpu?I.gd:(f.face>0?I.l&&!I.r:I.r&&!I.l))){
         if(f.st!=='guard')setSt(f,'guard');
@@ -238,10 +261,10 @@ function stepF(f,o,dt){
   }
   else if(f.st==='jump'){ if((I.p||I.k)&&!f.airAtk&&f.t>.08){f.airAtk=true;f.atkT=0;f.hitDone=false;sfx.whoosh(1);if(f.buf)f.buf.p=f.buf.k=0}
     if(f.airAtk){f.atkT+=dt;if(f.atkT<.4)tryHit(f,o,{reach:122,dmg:K.kd-1,stun:.3,push:240,vr:150,hy:140})} }
-  else if(f.st==='punch'){f.vx*=Math.pow(.001,dt);if(!tryChain(f,I)){const T=K.timing*chainTime(f);if(f.t>.07*T&&f.t<.18*T)tryHit(f,o,chainHit(f,{reach:112,dmg:K.pd,stun:.22,push:150,hy:150,kind:'p',high:1}));if(f.t>.3*T*chainRec(f))setSt(f,'idle')}}
-  else if(f.st==='kick'){f.vx*=Math.pow(.001,dt);if(!tryChain(f,I)){const T=K.timing*chainTime(f);if(f.t>.13*T&&f.t<.28*T)tryHit(f,o,chainHit(f,{reach:136,dmg:K.kd,stun:.32,push:290,hy:135,kind:'k',high:1}));if(f.t>.47*T*chainRec(f))setSt(f,'idle')}}
-  else if(f.st==='cpunch'){f.vx*=Math.pow(.001,dt);if(!tryChain(f,I)){const T=K.timing*chainTime(f);if(f.t>.06*T&&f.t<.16*T)tryHit(f,o,chainHit(f,{reach:108,dmg:K.pd,stun:.2,push:120,hy:105,kind:'p'}));if(f.t>.28*T*chainRec(f))setSt(f,I.down?'crouch':'idle')}}
-  else if(f.st==='ckick'){f.vx*=Math.pow(.001,dt);if(!tryChain(f,I)){const T=K.timing*chainTime(f);if(f.t>.12*T&&f.t<.26*T)tryHit(f,o,chainHit(f,{reach:150,dmg:K.kd*.8,stun:.34,push:220,hy:55,kind:'l',kd:1}));if(f.t>.46*T*chainRec(f))setSt(f,I.down?'crouch':'idle')}}
+  else if(f.st==='punch'){f.vx*=Math.pow(.001,dt);if(!tryChain(f,I)){const T=K.timing*chainTime(f);if(f.t>.07*T&&f.t<.18*T)tryHit(f,o,chainHit(f,{reach:112,dmg:K.pd,stun:.22,push:150,hy:150,kind:'p',high:1}));if(f.t>.3*T)setSt(f,'idle')}}
+  else if(f.st==='kick'){f.vx*=Math.pow(.001,dt);if(!tryChain(f,I)){const T=K.timing*chainTime(f);if(f.t>.13*T&&f.t<.28*T)tryHit(f,o,chainHit(f,{reach:136,dmg:K.kd,stun:.32,push:290,hy:135,kind:'k',high:1}));if(f.t>.47*T)setSt(f,'idle')}}
+  else if(f.st==='cpunch'){f.vx*=Math.pow(.001,dt);if(!tryChain(f,I)){const T=K.timing*chainTime(f);if(f.t>.06*T&&f.t<.16*T)tryHit(f,o,chainHit(f,{reach:108,dmg:K.pd,stun:.2,push:120,hy:105,kind:'p'}));if(f.t>.28*T)setSt(f,I.down?'crouch':'idle')}}
+  else if(f.st==='ckick'){f.vx*=Math.pow(.001,dt);if(!tryChain(f,I)){const T=K.timing*chainTime(f);if(f.t>.12*T&&f.t<.26*T)tryHit(f,o,chainHit(f,{reach:150,dmg:K.kd*.8,stun:.34,push:220,hy:55,kind:'l',kd:1}));if(f.t>.46*T)setSt(f,I.down?'crouch':'idle')}}
   else if(f.st==='throw'){
     if(!f.hitDone&&f.t>=R_THROW.startup){
       f.hitDone=true;
@@ -285,6 +308,11 @@ function stepF(f,o,dt){
         proj.push({o:f,kind:'donut',big,x:f.x+f.face*60,y:GROUND-150-Math.random()*50,vx:f.face*(big?560:620+Math.random()*160),vy:big?130:40+Math.random()*120,g:260,t:0,hit:false,dmg:big?8:4,stun:big?.5:.26,push:big?420:110,lift:big?360:0,c:Math.floor(Math.random()*4),rot:Math.random()*6})}
       if(f.t>.9)setSt(f,'rec')}
   }
+  else if(f.st==='fin'){const d=finisherOf(f);f.trail.push({x:f.x,y:f.y});if(f.trail.length>6)f.trail.shift();
+    if(!d.vy)f.vx=f.t<d.dur?f.face*d.vx:f.vx*Math.pow(.001,dt);
+    if(d.dust&&f.t<d.dur&&Math.random()<.5)dust(f.x-f.face*40);
+    if(f.t>d.from&&f.t<d.to)tryHit(f,o,{...d.hit,dmg:K.kd*d.dmg,fin:d.name,col:d.col});
+    if(d.vy?(f.t>.12&&f.y<=0):f.t>d.dur+.16){f.vx=0;setSt(f,'rec')}}
   else if(f.st==='rec'){f.vx*=Math.pow(.0005,dt);if(f.t>.26&&f.y<=0)setSt(f,'idle')}
   else if(f.st==='hit'){f.stun-=dt;if(f.stun<=0&&f.y<=0)setSt(f,'idle')}
   else if(f.st==='kd'){f.stun-=dt;if(f.y<=0&&!f.down){f.down=true;dust(f.x);shake=Math.max(shake,5)}if(f.stun<=0&&f.y<=0){f.down=false;setSt(f,'idle')}}

diff --git a/js/render.js b/js/render.js
@@ -10,6 +10,7 @@ function frameOf(f){
   if(s==='throw')return f.t<R_THROW.startup?'charge':f.t<.30?'special':'idle';
   if(s==='ko'||s==='kd')return f.down?'ko':'hit';
   if(s==='rec')return'idle';
+  if(s==='fin')return finisherOf(f).frame;
   if(s==='crouch')return'crouch';
   if(s==='cpunch')return f.t<.04?'crouch':'cpunch';
   if(s==='ckick')return f.t<.07?'crouch':'ckick';
@@ -40,7 +41,7 @@ function drawF(f,tm){
   const sx=f.x-camX,name=frameOf(f);let y=GROUND-f.y,bob=0;
   if(f.st==='idle')bob=Math.sin(tm*5+(f.cpu?1.5:0))*2.2;
   const sh=Math.max(.35,1-f.y/420);cx.fillStyle='rgba(10,8,30,.34)';cx.beginPath();cx.ellipse(sx,GROUND+4,(name==='ko'?120:62)*sh,13*sh,0,0,6.283);cx.fill();
-  if(f.st==='special'&&Math.abs(f.vx)>200)f.trail.forEach((t,i)=>drawSprite(f.ch,name,t.x-camX,GROUND-t.y,f.face,.08+i*.05));
+  if(f.st==='fin'||f.st==='special'&&Math.abs(f.vx)>200)f.trail.forEach((t,i)=>drawSprite(f.ch,name,t.x-camX,GROUND-t.y,f.face,.08+i*.05));
   if(f.st==='special'&&f.assist){const a=f.assist.ch;drawSprite(a,a==='R'?(Math.floor(f.t/.1)%2?'charge':'special'):a==='B'?'charge':a==='G'?'idle':'punch',sx+f.face*(f.assist.front?80:-95),GROUND,f.face,Math.min(1,f.t*8))}
   if(f.st==='charge'){const a=Math.min(1,f.t/.3);cx.save();cx.globalCompositeOperation='lighter';const g=cx.createRadialGradient(sx,y-120,10,sx,y-120,190);g.addColorStop(0,CH[f.ch].col);g.addColorStop(1,'rgba(0,0,0,0)');cx.globalAlpha=.55+.3*Math.sin(tm*40);cx.fillStyle=g;cx.fillRect(sx-200,y-320,400,400);
     cx.globalAlpha=1-a;cx.strokeStyle='#fff';cx.lineWidth=5;cx.beginPath();cx.ellipse(sx,GROUND,180*(1-a)+30,(180*(1-a)+30)*.25,0,0,6.283);cx.stroke();cx.restore()}
@@ -51,7 +52,7 @@ function drawF(f,tm){
     cx.drawImage(IMG.ostrichR,362*stride,0,362,246,-156,-229,353,240);
     cx.restore();
   }else{
-    drawSprite(f.ch,name,sx+jx,y+(name==='ko'?6:bob),f.face,undefined,1,f.thrown?-Math.sin(Math.min(1,f.t/.32)*Math.PI)*.95:0);
+    drawSprite(f.ch,name,sx+jx,y+(name==='ko'?6:bob),f.face,undefined,1,f.thrown?-Math.sin(Math.min(1,f.t/.32)*Math.PI)*.95:f.st==='fin'?(finisherOf(f).spin?f.t*finisherOf(f).spin:finisherOf(f).tilt||0):0);
   }
   if(f.st==='special'&&f.ch==='Wc'&&!f.sv)drawPaintRoller(f,sx,y);
   if(f.st==='special'&&f.ch==='Rc'&&!f.sv)drawTears(f,sx,y);

diff --git a/index.html b/index.html
@@ -4,7 +4,7 @@
 <meta charset="utf-8">
 <meta name="online-api" content="https://qddup-battle.cloudflare-example.workers.dev/api">
 <meta name="realtime-api" content="">
-<meta name="build" content="20261115194913">
+<meta name="build" content="20261115195649">
 <meta name="viewport" content="width=device-width,initial-scale=1,maximum-scale=1,user-scalable=no">
 <title>큐떱부산</title>
 <meta property="og:type" content="website">
@@ -144,10 +144,10 @@
 <script src="js/controls.js?v=e72aa610"></script>
 <script src="js/cutin.js?v=a65784af"></script>
 <script src="js/emote.js?v=fe681610"></script>
-<script src="js/fight.js?v=2a93cf6e"></script>
+<script src="js/fight.js?v=79a24feb"></script>
 <script src="js/ai.js?v=434dd6de"></script>
 <script src="js/update.js?v=7858667a"></script>
-<script src="js/render.js?v=13582d6f"></script>
+<script src="js/render.js?v=aafcaf24"></script>
 <script src="js/main.js?v=c70dfb56"></script>
 </body>
 </html>

diff --git a/server/cloudflare/make_guide.py b/server/cloudflare/make_guide.py
@@ -10,10 +10,10 @@ FAMILIES = [
     ('R', '보컬. 높은 점프와 가드를 뚫는 잡기를 가진 계열', ['R', 'Rb', 'Rd', 'Rc']),
 ]
 CHAINS = {
-    'Q': ['비트 러시: 펀치 → 펀치 → 킥 (띄우기)', '로우 비트: 앉아 펀치 → 펀치 → 다리 걸기 (넘어뜨리기)'],
-    'W': ['슬랩 대시: 킥 → 킥 → 펀치 (멀리 밀기)', '스텝 슬라이드: 펀치 → 킥 → 다리 걸기 (넘어뜨리기)'],
-    'E': ['파워 코드: 펀치 → 킥 → 킥 (긴 경직)', '다운 스트로크: 앉아 펀치 → 앉아 펀치 → 킥 (띄우기)'],
-    'R': ['하이노트: 펀치 → 펀치 → 펀치 (높이 띄우기)', '스텝 턴: 킥 → 앉아 펀치 → 킥 (밀며 띄우기)'],
+    'Q': ['비트 러시: 펀치 → 펀치 → 킥 (마무리 라이징 어퍼, 뛰어오르며 띄움)', '로우 비트: 앉아 펀치 → 펀치 → 다리 걸기 (마무리 슬라이딩 스윕, 넘어뜨림)'],
+    'W': ['슬랩 대시: 킥 → 킥 → 펀치 (마무리 대시 스트레이트, 멀리 밀어냄)', '스텝 슬라이드: 펀치 → 킥 → 다리 걸기 (마무리 슬라이드 태클, 넘어뜨림)'],
+    'E': ['파워 코드: 펀치 → 킥 → 킥 (마무리 스핀 킥, 긴 경직)', '다운 스트로크: 앉아 펀치 → 앉아 펀치 → 킥 (마무리 플레임 어퍼, 띄움)'],
+    'R': ['하이노트: 펀치 → 펀치 → 펀치 (마무리 스카이 하이, 높이 띄움)', '스텝 턴: 킥 → 앉아 펀치 → 킥 (마무리 드롭 킥, 밀며 띄움)'],
 }
 SPECIALS = {
     'Q': ('불꽃 복싱 3연타', '앞으로 파고들어 불꽃 주먹을 세 번 이어 칩니다. 첫 타가 닿아야 다음 타로 이어지고, 마지막 타는 상대를 띄워 날립니다.', '근접 연타'),

diff --git a/TODO.md b/TODO.md
@@ -328,3 +328,19 @@
 **연계 기술 설명서 이미지**
 - `notice/combo-guide.png` (1080×1830) 추가. 연계 방법 3단계, 버튼 표시(펀치 Z/J, 킥 X/K, 아래 방향), Q·W·E·R 계열별 연계 2가지와 마무리 효과, 참고 사항 4줄. 게임에서는 쓰지 않는 공지용 이미지
 - 연계 순서나 수치를 바꾸면 이 이미지도 다시 만들어야 함
+
+**연계 기술 개선: 입력 여유와 전용 마무리 기술 (2026-11-15)**
+- 사용자 피드백 1: 콤보가 안 먹힘. 원인: 다음 버튼을 공격 동작이 끝나기 전(약 0.2초 안)에 눌러야만 이어졌음. 0.35초 간격으로 누르면 끊김
+- 조치: 기본기가 닿은 뒤 0.5초 안에 누르면 동작이 끝난 뒤에도 이어지게 함 (`f.cw`, `chainResume`). 연계가 되는 기본기의 경직을 0.36초, 2타째를 0.42초로 늘려 실제로 연속으로 맞게 함
+- 사용자 피드백 2: 마무리가 그냥 킥이라 일반 공격과 다를 게 없음. 대각선 어퍼컷 같은 새 기술이 나와야 함
+- 조치: 3타째는 버튼과 상관없이 순서별 전용 마무리 기술이 나감 (새 상태 `fin`, `FINISHERS`, `startFinisher`)
+  - Q: 라이징 어퍼(뛰어오르며 띄움), 슬라이딩 스윕(미끄러지며 넘어뜨림)
+  - W: 대시 스트레이트(빠르게 돌진해 멀리 밀어냄), 슬라이드 태클
+  - E: 스핀 킥(회전하며 긴 경직), 플레임 어퍼
+  - R: 스카이 하이(수직으로 높이 솟구침), 드롭 킥
+  - EGG·BING: 피니시 블로(돌진 펀치)
+- 마무리 기술은 기존 그림(펀치, 킥, 점프 등)을 기울이거나 회전시키고 이동·잔상·효과를 붙여 표현. 전용 그림은 아직 없음
+- 피해: 2타 60%, 마무리는 킥 피해의 70~90%. 3타 합계 20~26 (필살기 20~28)
+- `render.js`: `fin` 상태의 그림, 기울기·회전, 잔상. `make_guide.py`, `characters.html`, `notice/combo-guide.png`도 마무리 기술 이름으로 갱신
+- 확인: 7명으로 0.15~0.4초 간격 입력 모두 3타 연결과 마무리 발동. CPU 대전 5판(1만 7천 프레임, 그리기 포함) 오류 없음. 온라인 대전은 미확인
+- 빌드 20261115195649. 이전 예약 배포(빌드 20261115194913의 서버 번호 반영)는 실행 전에 중단함
